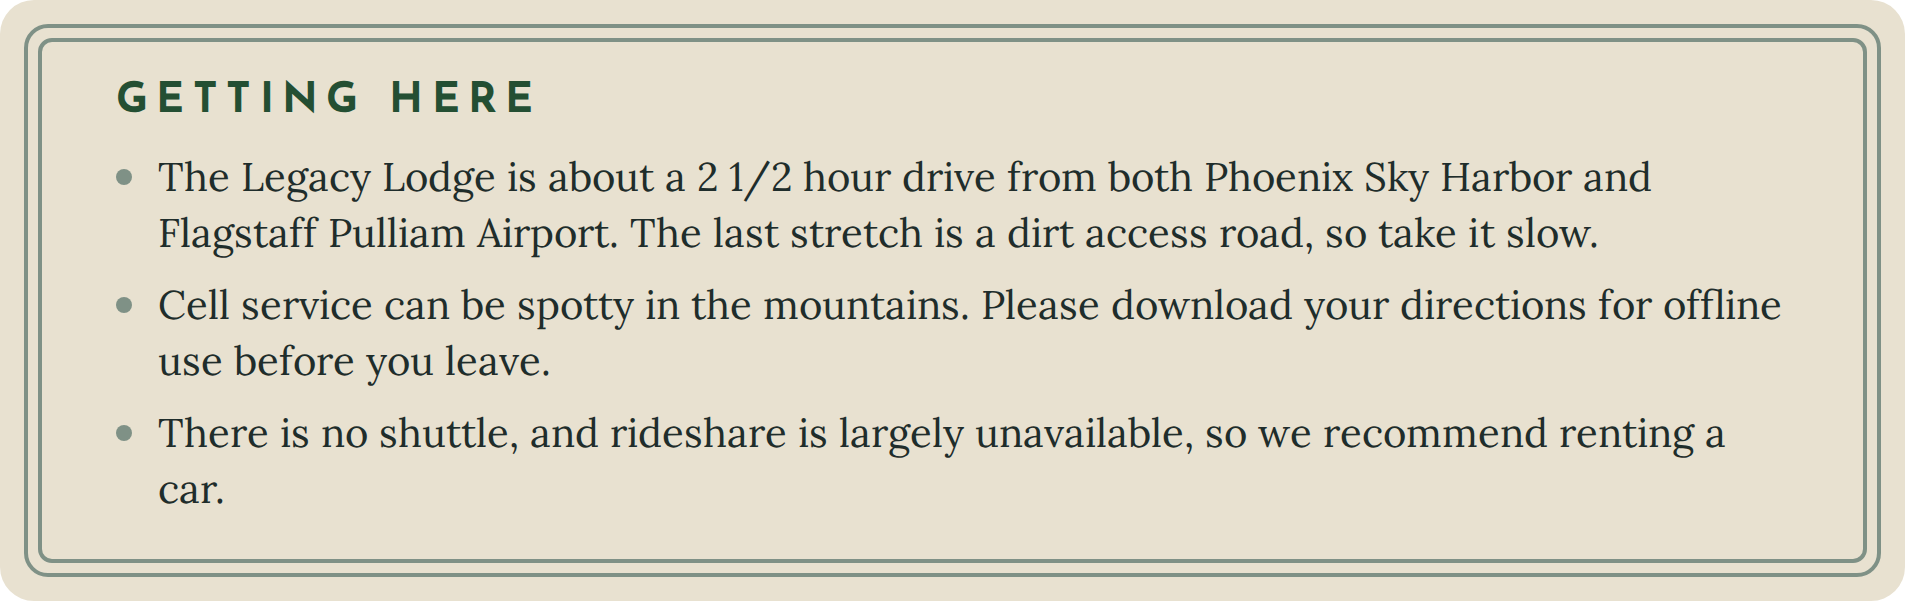
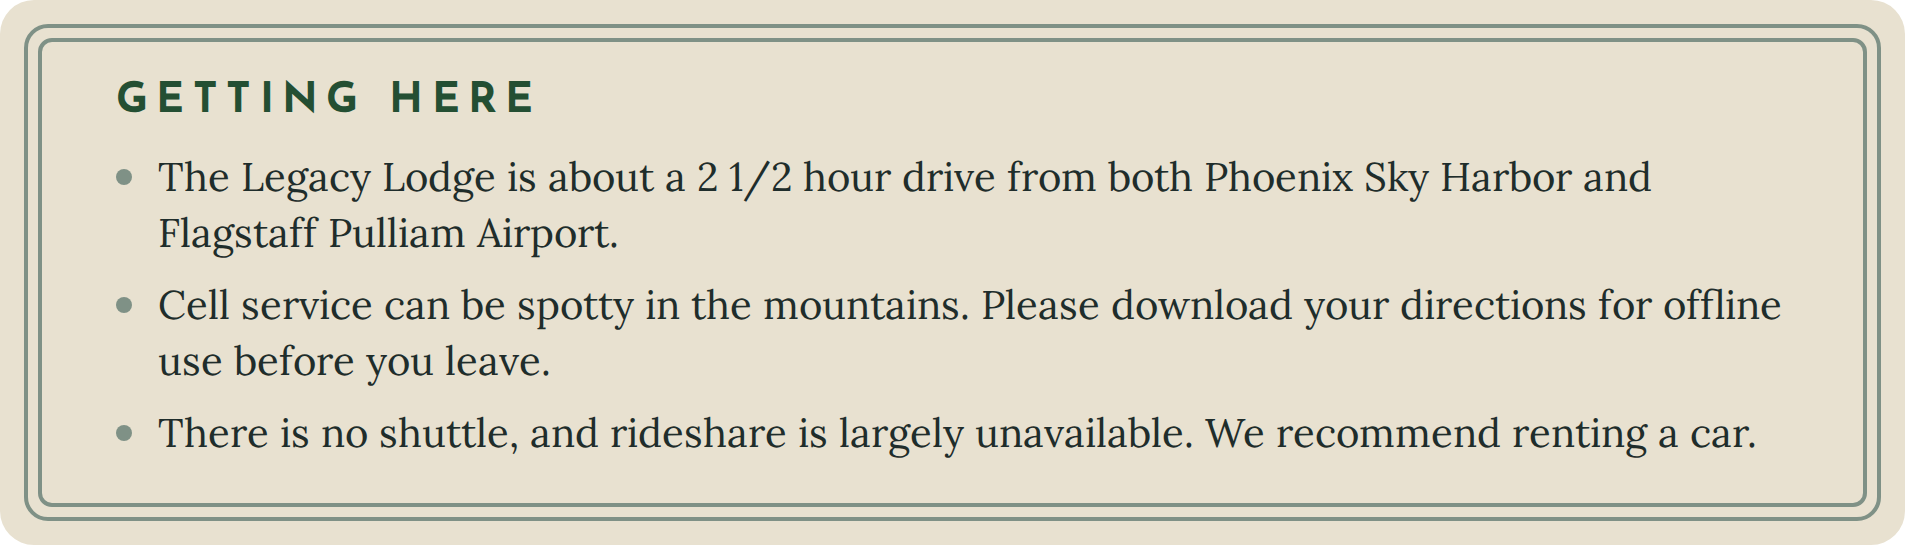
deploy: b31b70c358b6dc8aca858f36b483d364a627fe2c

diff --git a/assets/events-data.js b/assets/events-data.js
@@ -71,16 +71,13 @@ window.WEDDING_EVENTS = [
 // ---------------------------------------------------------------
 window.WEDDING_GOOD_TO_KNOW = {
   getting: [
-    "The Legacy Lodge is about a 2 1/2 hour drive from both Phoenix Sky Harbor and Flagstaff Pulliam Airport. The last stretch is a dirt access road, so take it slow.",
+    "The Legacy Lodge is about a 2 1/2 hour drive from both Phoenix Sky Harbor and Flagstaff Pulliam Airport.",
     "Cell service can be spotty in the mountains. Please download your directions for offline use before you leave.",
-    "There is no shuttle, and rideshare is largely unavailable, so we recommend renting a car.",
+    "There is no shuttle, and rideshare is largely unavailable. We recommend renting a car.",
   ],
   parkHere: [
     "Outside the gate, without blocking the road or entrance",
     "Inside the gate, along the outer fence",
-    "Along the right driveway loop",
-    "Under the front porte-cochere",
-    "Under the covered solar patio",
   ],
   parkNot: [
     "Park on the grass",
@@ -89,5 +86,5 @@ window.WEDDING_GOOD_TO_KNOW = {
   ],
   parkNote: "Parking and no parking signs are posted throughout the property.",
   weather:
-    "Typical May weather in Heber is a high of 72°F and a low of 43°F (WeatherSpark). Evenings get chilly even when the day is warm, so bring layers and a warm jacket.",
+    "Typical May weather in Heber is a high of 72°F and a low of 43°F.",
 };
